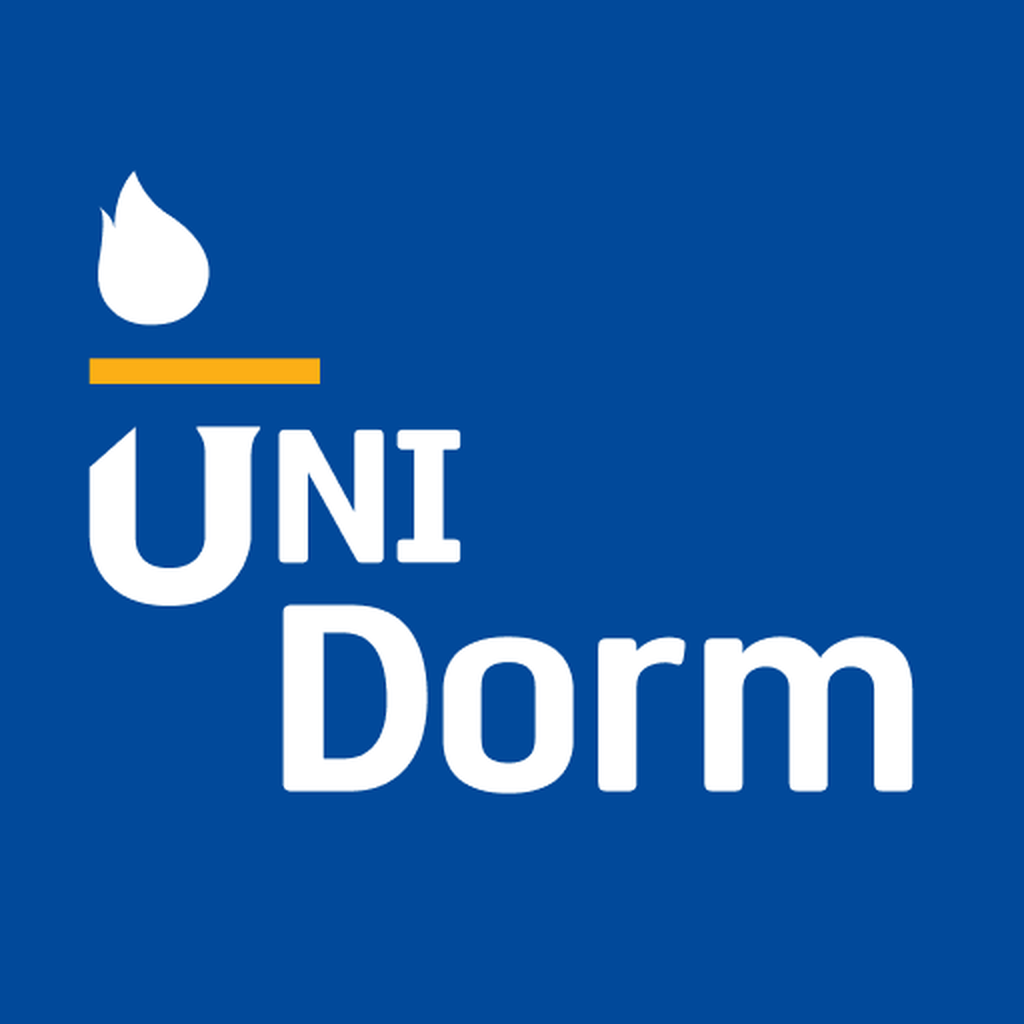
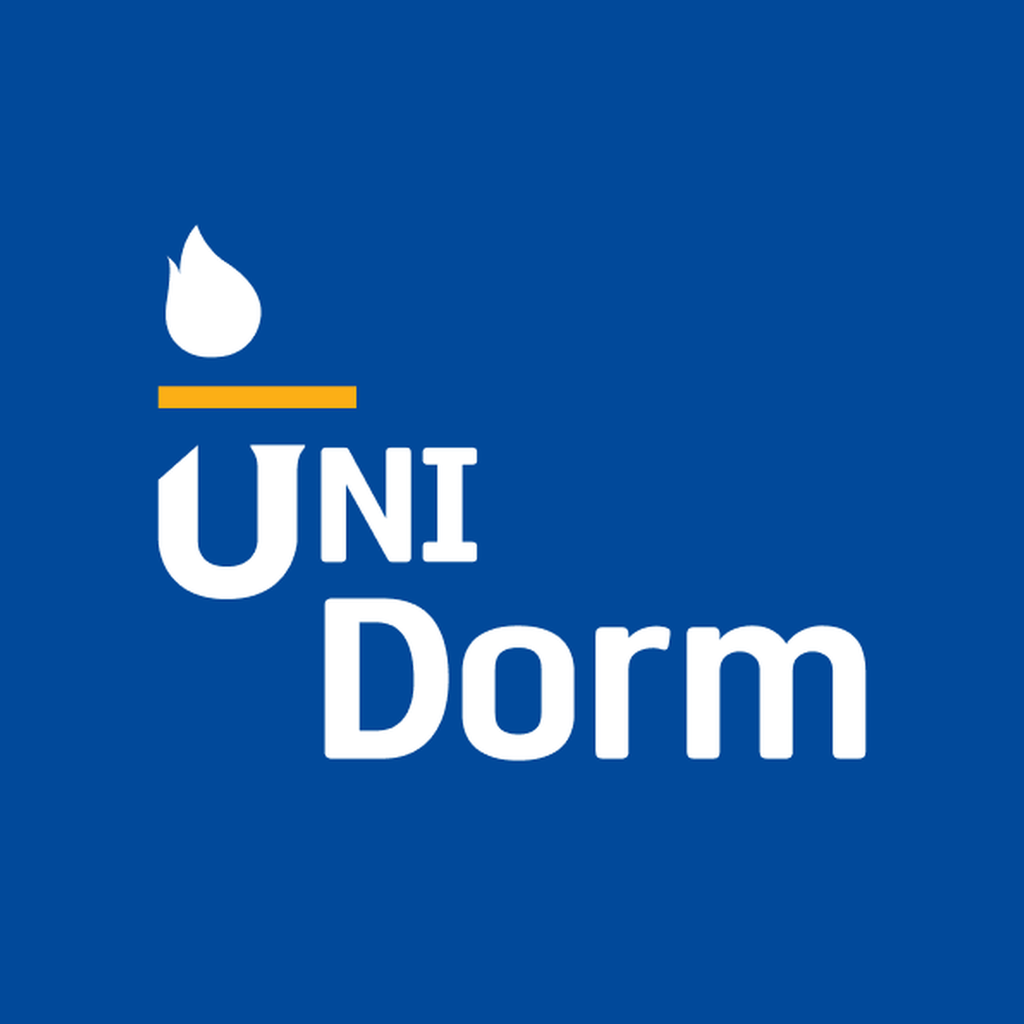
feat: 앱 버전 4.0.0 업데이트 및 빌드 설정 동기화
- app.json / package.json 버전 4.0.0 업데이트
- iOS 빌드 번호(14) 및 Android 버전 코드(26) 상향
- Android 자동화 빌드 스크립트(scripts/build-android.js) 추가 및 스크립트 연결
- Android 빌드 가이드 문서화(AGENTS.md, README.md)
- .gitignore에 APK/AAB 바이너리 제외 추가
- 앱 아이콘 최신 에셋 반영

Changed region(s): [[0.0625, 0.1562, 0.9062, 0.7812]]

diff --git a/scripts/build-android.js b/scripts/build-android.js
@@ -1,0 +1,135 @@
+#!/usr/bin/env node
+/**
+ * Android 자동 빌드 및 검증 스크립트 (Production / Development)
+ *
+ * 작업자나 AI가 환경 변수, .env.local 잔재, 캐시 오염 등으로 인해
+ * 잘못된 빌드(Dev URL이 들어간 프로덕션 빌드 등)를 생성하는 실수를 원천 차단합니다.
+ *
+ * 사용법:
+ *   npm run build:android:prod  # 프로덕션 AAB & APK 생성 및 무결성 검증
+ *   npm run build:android:dev   # 개발용 Standalone APK 생성 및 자동 정리
+ */
+
+const { execSync, spawnSync } = require('child_process');
+const fs = require('fs');
+const path = require('path');
+
+const rootDir = path.resolve(__dirname, '..');
+const parentDir = path.resolve(rootDir, '..');
+const androidDir = path.resolve(rootDir, 'android');
+const envLocalPath = path.resolve(rootDir, '.env.local');
+
+const isProd = process.argv.includes('--prod');
+const isDev = process.argv.includes('--dev');
+
+if (!isProd && !isDev) {
+  console.error('❌ 모드를 지정해주세요: --prod 또는 --dev');
+  process.exit(1);
+}
+
+const mode = isProd ? 'production' : 'development';
+console.log(`\n🚀 [UNIDORM] Android ${mode.toUpperCase()} 빌드 파이프라인 가동\n`);
+
+// 1. 캐시 및 환경 정리
+console.log('🧹 [1/5] 빌드 캐시 및 환경 파일 정리...');
+if (fs.existsSync(envLocalPath)) {
+  fs.unlinkSync(envLocalPath);
+}
+
+// React Native JS 번들 캐시 강제 삭제 (이전 빌드의 번들이 재사용되는 참사 원천 방지)
+const bundleAssetsDir = path.resolve(androidDir, 'app/build/generated/assets/react/release');
+if (fs.existsSync(bundleAssetsDir)) {
+  fs.rmSync(bundleAssetsDir, { recursive: true, force: true });
+}
+
+// 2. 모드별 환경 구성
+const env = { ...process.env };
+let envLocalBackup = null;
+
+try {
+  if (isProd) {
+    console.log('🔒 [2/5] 프로덕션 환경 설정 (URL: unidorm.inuappcenter.kr)');
+    env.APP_VARIANT = 'production';
+    env.EXPO_PUBLIC_ROOT_URL = 'https://unidorm.inuappcenter.kr';
+
+    // 릴리스 키스토어 설정
+    const keystorePath = path.resolve(parentDir, 'unidorm.jks');
+    if (!fs.existsSync(keystorePath)) {
+      throw new Error(`릴리스 키스토어를 찾을 수 없습니다: ${keystorePath}`);
+    }
+    env.ANDROID_RELEASE_STORE_FILE = keystorePath;
+    env.ANDROID_RELEASE_STORE_PASSWORD = '17b7ca49d13038a7170c58b5c7137a03';
+    env.ANDROID_RELEASE_KEY_ALIAS = '1e5c58c595feae1422690fea41ebdda5';
+    env.ANDROID_RELEASE_KEY_PASSWORD = 'db50705bb2c9227e0388fd6016ed85d3';
+  } else {
+    console.log('🧪 [2/5] 개발 환경 설정 (URL: unidorm-test.pages.dev)');
+    env.APP_VARIANT = 'development';
+    env.EXPO_PUBLIC_ROOT_URL = 'https://unidorm-test.pages.dev';
+    // expo export:embed 가 참조하도록 임시 .env.local 생성
+    fs.writeFileSync(envLocalPath, 'EXPO_PUBLIC_ROOT_URL=https://unidorm-test.pages.dev\n', 'utf8');
+  }
+
+  // 3. 빌드 실행
+  console.log('⚙  [3/5] Gradle 빌드 실행...');
+  const gradlew = process.platform === 'win32' ? '.\\gradlew.bat' : './gradlew';
+  const gradleArgs = isProd
+    ? ['bundleRelease', 'assembleRelease', '-PreactNativeArchitectures=armeabi-v7a,arm64-v8a']
+    : ['assembleRelease', '-PreactNativeArchitectures=arm64-v8a'];
+
+  const buildResult = spawnSync(gradlew, gradleArgs, {
+    cwd: androidDir,
+    env,
+    stdio: 'inherit',
+    shell: true,
+  });
+
+  if (buildResult.status !== 0) {
+    throw new Error(`Gradle 빌드 실패 (종료 코드: ${buildResult.status})`);
+  }
+
+  // 4. 번들 무결성 사후 검증 (Sanity Assertions)
+  console.log('🔍 [4/5] 번들 무결성 사후 검증 (Sanity Assertion)...');
+  const bundleFile = path.resolve(bundleAssetsDir, 'index.android.bundle');
+  if (fs.existsSync(bundleFile)) {
+    const bundleContent = fs.readFileSync(bundleFile, 'utf8');
+    if (isProd) {
+      if (bundleContent.includes('https://unidorm-test.pages.dev')) {
+        throw new Error('❌ [치명적 결함] 프로덕션 번들에 테스트 URL(https://unidorm-test.pages.dev)이 포함되어 있습니다! 빌드를 즉시 폐기합니다.');
+      }
+      if (!bundleContent.includes('https://unidorm.inuappcenter.kr')) {
+        throw new Error('❌ [치명적 결함] 프로덕션 번들에 운영 URL(https://unidorm.inuappcenter.kr)이 누락되었습니다! 빌드를 즉시 폐기합니다.');
+      }
+      console.log('   ✅ 프로덕션 URL 검증 통과 (https://unidorm.inuappcenter.kr 확인, https://unidorm-test.pages.dev 미포함)');
+    } else {
+      if (!bundleContent.includes('https://unidorm-test.pages.dev')) {
+        console.warn('   ⚠ [경고] 개발용 번들에 https://unidorm-test.pages.dev가 감지되지 않았습니다.');
+      } else {
+        console.log('   ✅ 개발 테스트 URL(https://unidorm-test.pages.dev) 번들링 확인');
+      }
+    }
+  }
+
+  // 5. 산출물 복사
+  console.log('📦 [5/5] 산출물 복사 및 완료 처리...');
+  if (isProd) {
+    const aabSource = path.resolve(androidDir, 'app/build/outputs/bundle/release/app-release.aab');
+    const apkSource = path.resolve(androidDir, 'app/build/outputs/apk/release/app-release.apk');
+    fs.copyFileSync(aabSource, path.resolve(parentDir, 'unidorm-prod.aab'));
+    fs.copyFileSync(apkSource, path.resolve(parentDir, 'unidorm-prod.apk'));
+    fs.copyFileSync(aabSource, path.resolve(rootDir, 'unidorm-prod.aab'));
+    fs.copyFileSync(apkSource, path.resolve(rootDir, 'unidorm-prod.apk'));
+    console.log('\n🎉 [성공] 프로덕션 빌드 완료: unidorm-prod.aab, unidorm-prod.apk\n');
+  } else {
+    const apkSource = path.resolve(androidDir, 'app/build/outputs/apk/release/app-release.apk');
+    fs.copyFileSync(apkSource, path.resolve(parentDir, 'unidorm-dev-arm64.apk'));
+    fs.copyFileSync(apkSource, path.resolve(rootDir, 'unidorm-dev-arm64.apk'));
+    console.log('\n🎉 [성공] 개발용 빌드 완료: unidorm-dev-arm64.apk\n');
+  }
+
+} finally {
+  // 빌드 후 어떤 상황에서도 .env.local 잔재를 깨끗이 청소하여 차후 빌드 오염 방지
+  if (fs.existsSync(envLocalPath)) {
+    fs.unlinkSync(envLocalPath);
+    console.log('🧹 임시 .env.local 파일 자동 정리 완료');
+  }
+}

diff --git a/app.config.js b/app.config.js
@@ -25,7 +25,6 @@ module.exports = () => ({
     android: {
       ...expo.android,
       ...(isDevVariant && {
-        package: "com.hjunieee.inudormitory.dev",
         googleServicesFile: "./google-services-dev.json",
         adaptiveIcon: {
           foregroundImage: "./assets/images/android-icon-foreground-dev.png",

diff --git a/README.md b/README.md
@@ -1,0 +1,30 @@
+# 유니돔 앱 (UNIDorm App)
+
+인천대학교 기숙사 공식 모바일 포털 애플리케이션 (React Native / Expo SDK 56)
+
+---
+
+## 🛠 Android 빌드 가이드라인
+
+본 프로젝트는 프로덕션과 개발(Dev) 빌드 간의 환경 분리를 자동화 스크립트로 엄격히 관리합니다.
+수동으로 환경 변수나 `.env.local`을 조작하지 마시고, 반드시 아래 npm 스크립트를 사용하세요.
+
+### 1. 프로덕션 빌드 (Google Play 스토어 배포용)
+```bash
+npm run build:android:prod
+```
+- **운영 서버 URL**: `https://unidorm.inuappcenter.kr`
+- **Application ID**: `com.hjunieee.inudormitory`
+- **서명 키**: `unidorm.jks` 자동 서명
+- **산출물**: `unidorm-prod.aab` (스토어 콘솔 업로드용), `unidorm-prod.apk` (기기 테스트용)
+- **자동 검증(Assertion)**: 컴파일된 JS 번들에 테스트 URL(`unidorm-test.pages.dev`)이 1개라도 감지되면 빌드가 즉시 중단 및 폐기됩니다.
+
+### 2. 개발(Dev) 단독 빌드
+```bash
+npm run build:android:dev
+```
+- **테스트 서버 URL**: `https://unidorm-test.pages.dev`
+- **Application ID**: `com.hjunieee.inudormitory.dev` (정식 앱과 별도로 기기에 나란히 설치 가능)
+- **앱 이름**: `유니돔 Dev` (Dev 전용 뱃지 아이콘)
+- **산출물**: `unidorm-dev-arm64.apk`
+- **자동 정리**: 빌드 완료 후 임시 `.env.local`을 자동으로 삭제하여 향후 프로덕션 빌드가 오염되지 않도록 보장합니다.

diff --git a/AGENTS.md b/AGENTS.md
@@ -66,3 +66,28 @@ version range (`"^0.1.0"`) and drop the submodule — no reason to keep both.
 - `src/widgets/*.tsx` files (`NextClassWidget`, `TodayClassesWidget`,
   `BusArrivalWidget`, `CafeteriaMenuWidget`, `TimetableWidget`) stay in this
   app — they're UniDorm-specific, unlike the renderer itself.
+
+
+# Android Build Guidelines (Production vs Development)
+
+**DO NOT** manually invoke Gradle or leave raw `.env.local` files in the repository. Doing so can cause bundle cache pollution where development URLs (`unidorm-test.pages.dev`) leak into production binaries.
+
+Always use the automated build scripts:
+
+- **Production Build (AAB & APK)**:
+  ```bash
+  npm run build:android:prod
+  ```
+  - Automatically ensures `.env.local` is purged.
+  - Injects `unidorm.jks` release keystore credentials.
+  - Clears stale Metro/JS bundle assets to avoid URL caching.
+  - Builds both `unidorm-prod.aab` and `unidorm-prod.apk`.
+  - **Self-Verification Assertion**: Automatically scans the compiled bundle to ensure NO development URLs (`unidorm-test.pages.dev`) are present, failing the build immediately if violated.
+
+- **Development Standalone Build (APK)**:
+  ```bash
+  npm run build:android:dev
+  ```
+  - Sets `APP_VARIANT=development` (Application ID: `com.hjunieee.inudormitory.dev`, Dev badge icon).
+  - Temporarily wires `EXPO_PUBLIC_ROOT_URL=https://unidorm-test.pages.dev`.
+  - Cleans up `.env.local` automatically upon build completion so it never pollutes future production builds.
